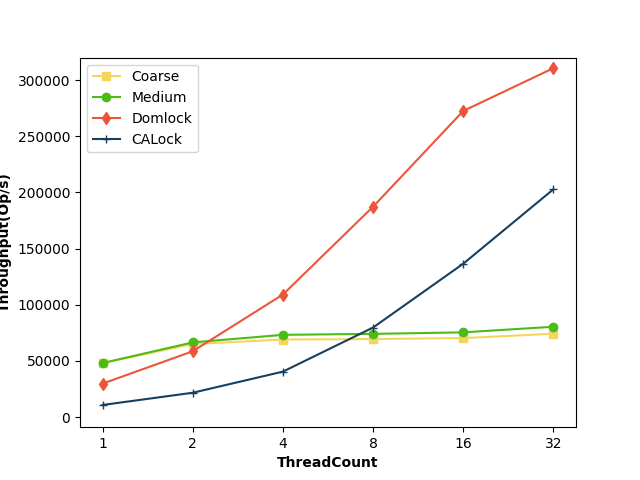
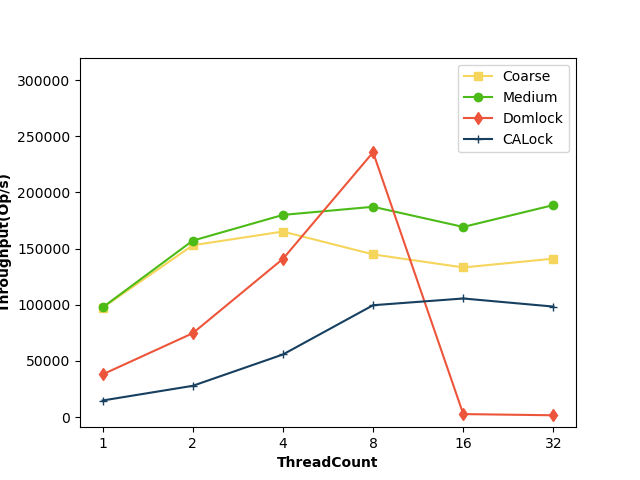
Add traversals to stress test

diff --git a/StressTest/Hierarchical-locks-Graph/src/Tree.h b/StressTest/Hierarchical-locks-Graph/src/Tree.h
@@ -961,29 +961,28 @@ void Tree::DummyTask(int node)
 
 
 //	//accessType = 1;
-//		TreeNode *ptr = head;
-//		TreeNode *nodePtr1 = Array[node];
-//		TreeNode *nodePtr2 = Array[node2];
-//	//	while( ptr->preNumber <= min && ptr->postNumber >= max)
-//	//	{
-//
-//      			for(int i=0;i<ptr->neighbour.size();i++)
-//			{
-//				if(ptr->neighbour[i] != NULL && ptr->neighbour[i]->preNumber <= min && ptr->neighbour[i]->postNumber >= max)
-//				{
-//					ptr = ptr->neighbour[i];
-//      				}
-//
-//			}
-//	//	}
+		TreeNode *ptr = head;
+		TreeNode *nodePtr1 = Array[node];
+		TreeNode *nodePtr2 = Array[node2];
+		while( ptr->preNumber <= min && ptr->postNumber >= max)
+		{
+            for(int i=0;i<ptr->neighbour.size();i++)
+			{
+				if(ptr->neighbour[i] != NULL && ptr->neighbour[i]->preNumber <= min && ptr->neighbour[i]->postNumber >= max)
+				{
+					ptr = ptr->neighbour[i];
+      				}
+
+			}
+		}
     
 		//printf("dominator of %d is %d \n",threadID,ptr->data);
 		//Inserts interval of dominator into interval data structure. ptr is a dominator node.
 		
-		interval *inv = new interval(min,max,accessType);
+		interval *inv = new interval(ptr->preNumber,ptr->postNumber,accessType);
 		xy:	if(!ICheck.IsOverlap(inv, accessType, threadID))
 		{	
-//			pthread_rwlock_wrlock(&ptr->rwlock);
+			pthread_rwlock_wrlock(&ptr->rwlock);
 	
 			//ICheck.Insert(inv, threadID);
 			
@@ -992,7 +991,7 @@ void Tree::DummyTask(int node)
 			
 			ICheck.Delete(threadID);
 			//cout<<"\n deleted by "<<threadID;
-//			pthread_rwlock_unlock(&ptr->rwlock);
+			pthread_rwlock_unlock(&ptr->rwlock);
 
 		}
 		else {;goto xy;}

diff --git a/StressTest/Hierarchical-locks-Tree/src/Tree.h b/StressTest/Hierarchical-locks-Tree/src/Tree.h
@@ -546,7 +546,31 @@ void Tree::DummyTask(int node)
 			
 			
 		}
-		auto *inv = new interval(min,max,accessType);
+
+        TreeNode *ptr = head;
+        TreeNode *nodePtr1 = Array[node];
+        TreeNode *nodePtr2 = Array[node2];
+        while( ptr->preNumber <= min && ptr->postNumber >= max)
+        {
+
+
+            if(ptr->left != NULL && ptr->left->preNumber <= min && ptr->left->postNumber >= max)
+            {
+                ptr = ptr->left;
+            }
+            else if ( ptr->right != NULL && ptr->right->preNumber <= min && ptr->right->postNumber >= max)
+            {
+
+                ptr = ptr->right;
+            }
+            else
+            {
+                break;
+            }
+        }
+
+
+		auto *inv = new interval(ptr->preNumber,ptr->postNumber,accessType);
 		xy:	if(!ICheck.IsOverlap(inv, accessType, threadID))
 		{
 			NullOperation();

diff --git a/Performance Tests/src/lockPool.h b/Performance Tests/src/lockPool.h
@@ -41,6 +41,7 @@ public:
 
 class lockPool {
 public:
+    const uint processor_Count = std::thread::hardware_concurrency();
     mutex lockPoolLock;
     lockObject* locks[SIZE];
     mutex threadMutexes[SIZE];
@@ -97,7 +98,7 @@ public:
                      (reqObj->Id == l->Id || lscaHelpers::hasCriticalAncestor(reqObj->criticalAncestors, l->Id)) &&
                      /// It isn't my turn to take the lock
                      (reqObj->Oseq > l->Oseq)) {
-                        this_thread::yield();
+                        if(processor_Count<parameters.getThreadNum()) this_thread::yield();
                         l=locks[i];
                     }
                 }
@@ -105,7 +106,6 @@ public:
         }
         return true;
     }
-
     void releaseLock(lockObject *l, int threadId){
         if(parameters.threadBlockingAllowed()){
             {

diff --git a/Performance Tests/src/interval.h b/Performance Tests/src/interval.h
@@ -79,8 +79,8 @@ public:
                 interval *ptr = Array[i];
                 //wait untill there is an overlap and my sequence number is greater
                 while(ptr !=NULL &&
-                      (m == 1 || (m == 0 && ptr->mode == 1)) &&
-                      (ptr->pre <= inv->post && ptr->post >= inv->pre)
+                    (inv->mode==1 || (inv->mode == 0 && ptr->mode == 1)) &&
+                    ((ptr->pre <= inv->post && ptr->post>= inv->post) || (ptr->post >= inv->pre && ptr->pre<=inv->pre))
                       && ptr->MySeq < inv->MySeq)
                 {
                     ptr = Array[i];

diff --git a/Performance Tests/plotter.cpp b/Performance Tests/plotter.cpp
@@ -11,7 +11,7 @@ int main()
     ofstream output("./benchmarkResults/Results.csv");
     int Iterations = 5;
     output<<"ThreadCount, Coarse, Medium, Domlock, CALock"<<"\n";
-    for(int i=0;i<7;i++)
+    for(int i=0;i<6;i++)
     {
         string threadCount = to_string((int)pow(2,i));
         ifstream c_file("./benchmarkResults/coarse"+threadCount+".txt");
